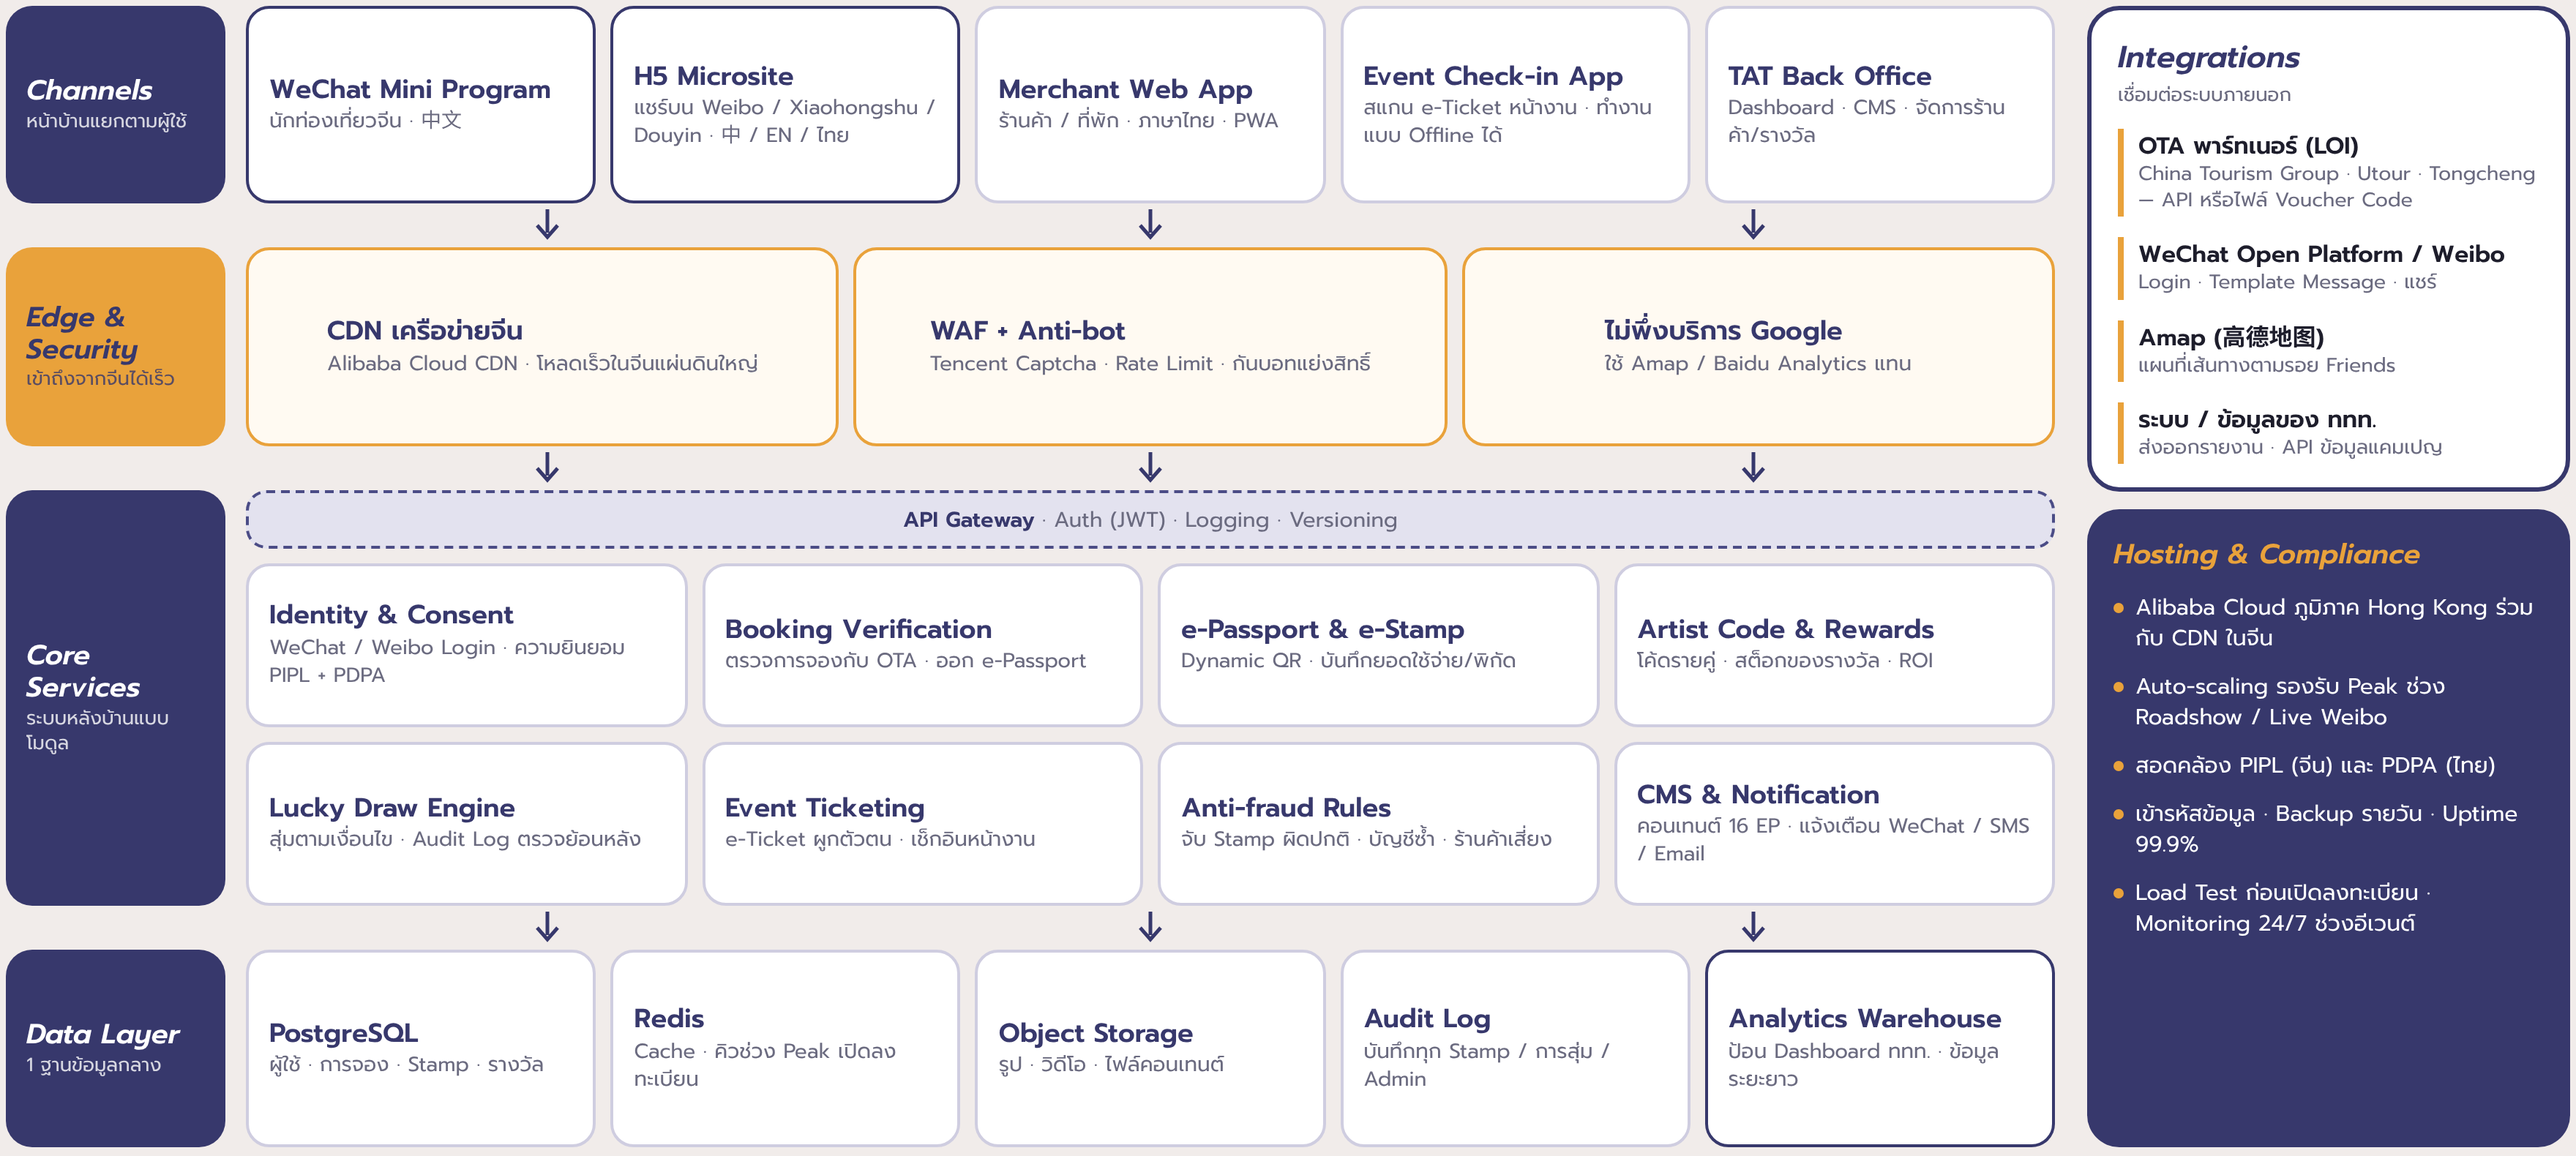
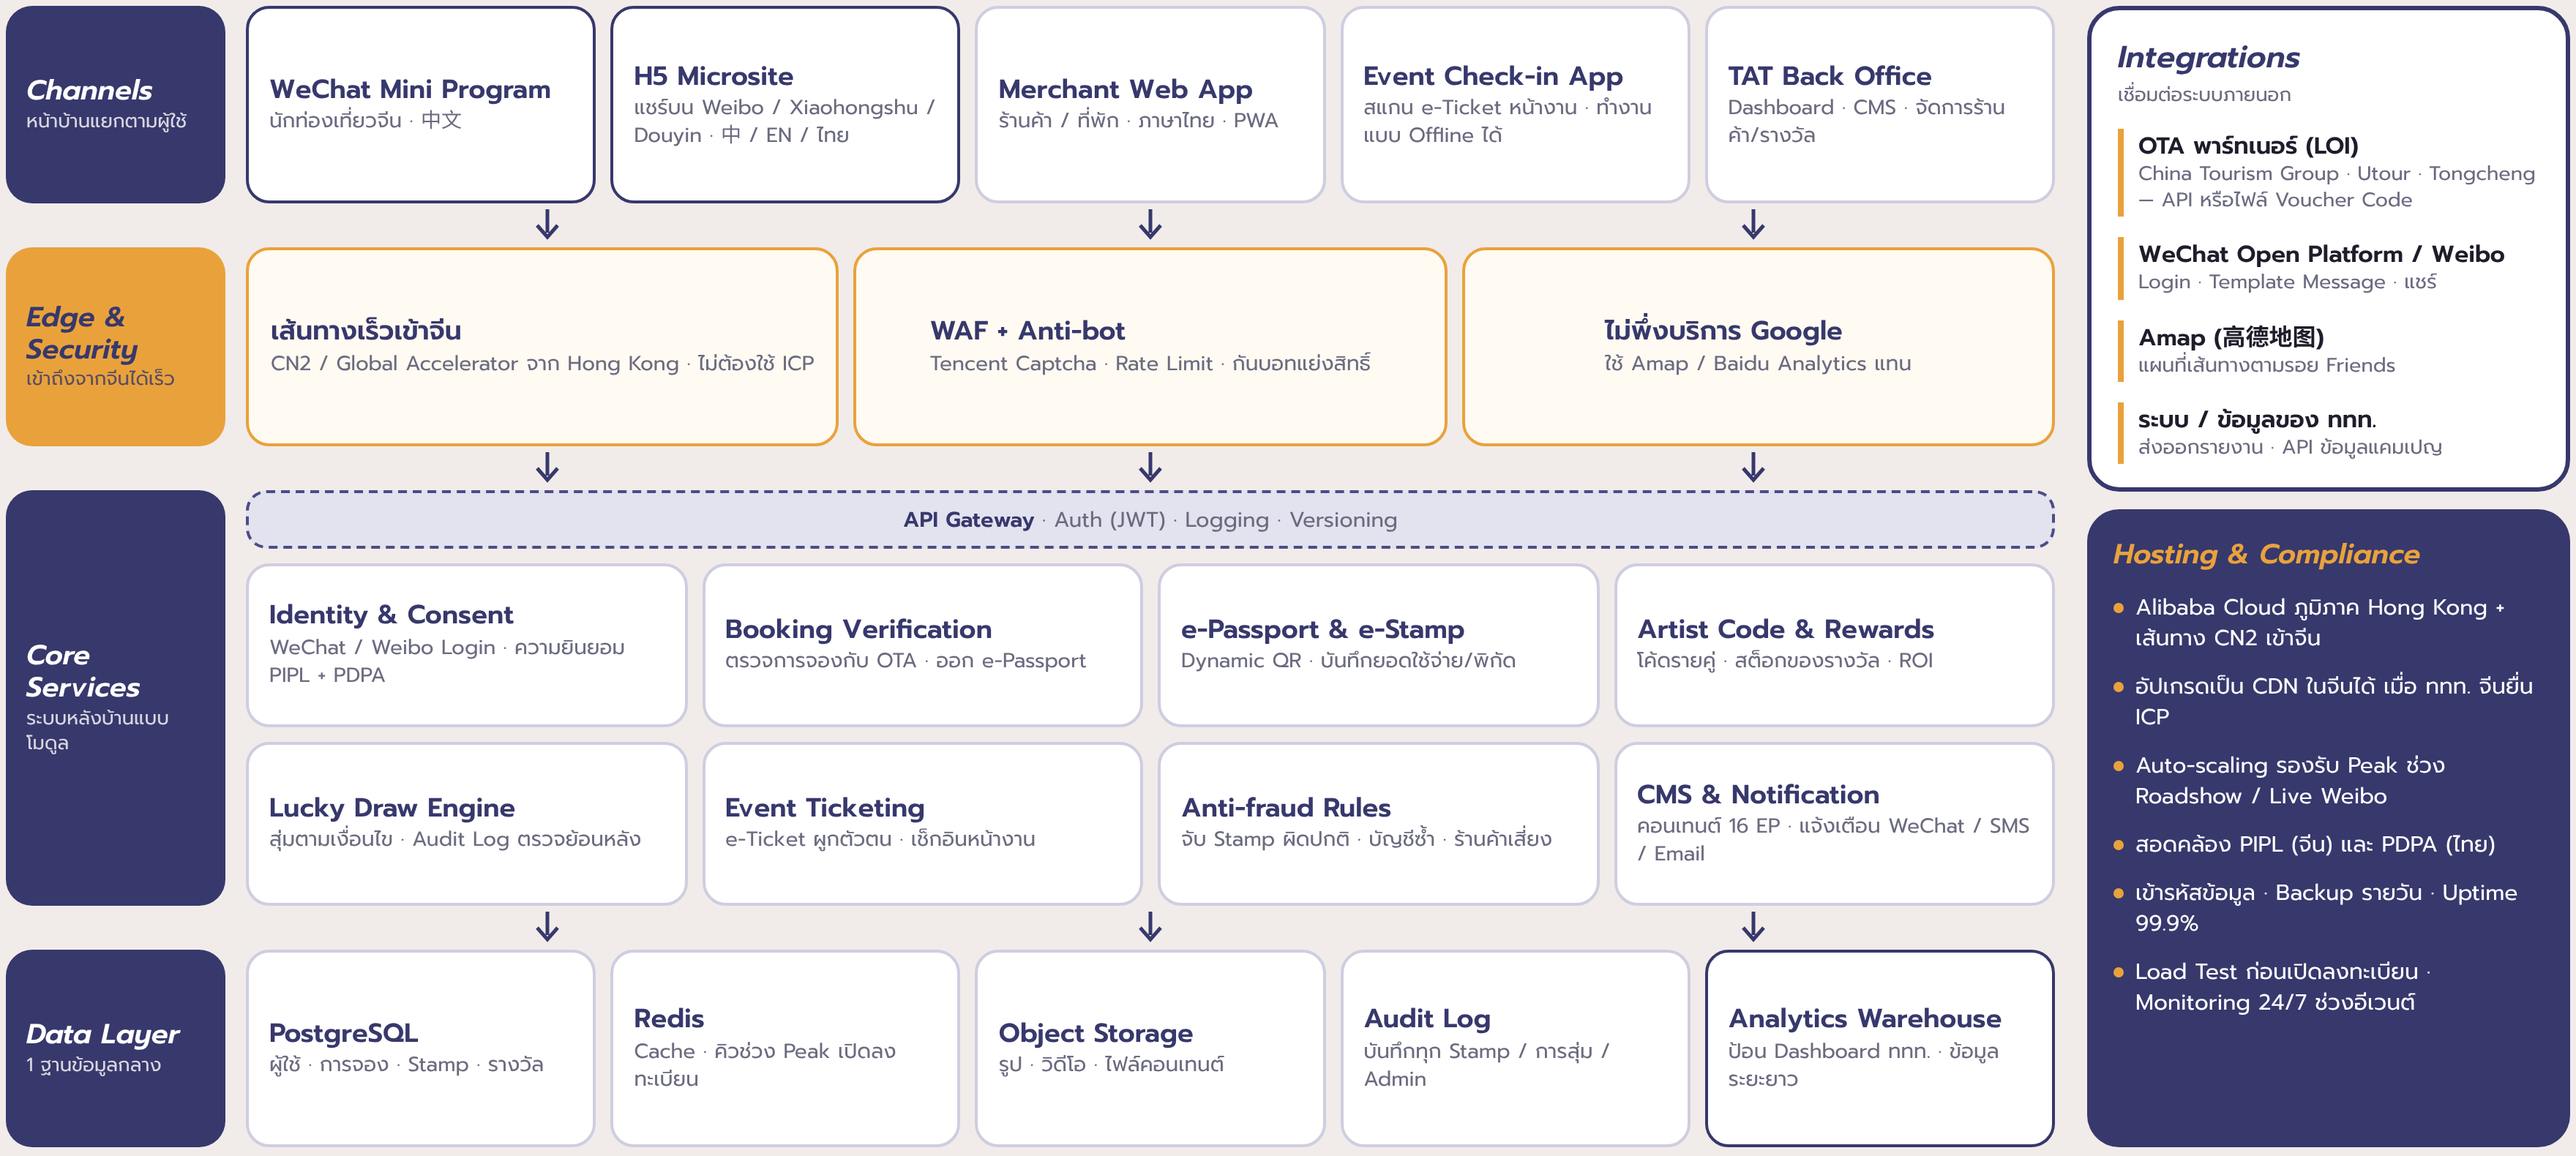
Architecture slide: replace in-China CDN with HK + CN2 route (no ICP needed)
Claude-Session: https://claude.ai/code/session_016nn1LH5sURhQb5trt8wQmh

diff --git a/system-slides/04-architecture.html b/system-slides/04-architecture.html
@@ -58,7 +58,7 @@
     <div class="tier">
       <div class="tl acc"><b>Edge &amp; Security</b><span>เข้าถึงจากจีนได้เร็ว</span></div>
       <div class="edge">
-        <div class="bx ac"><div><b>CDN เครือข่ายจีน</b><span>Alibaba Cloud CDN · โหลดเร็วในจีนแผ่นดินใหญ่</span></div></div>
+        <div class="bx ac"><div><b>เส้นทางเร็วเข้าจีน</b><span>CN2 / Global Accelerator จาก Hong Kong · ไม่ต้องใช้ ICP</span></div></div>
         <div class="bx ac"><div><b>WAF + Anti-bot</b><span>Tencent Captcha · Rate Limit · กันบอทแย่งสิทธิ์</span></div></div>
         <div class="bx ac"><div><b>ไม่พึ่งบริการ Google</b><span>ใช้ Amap / Baidu Analytics แทน</span></div></div>
       </div>
@@ -115,7 +115,8 @@
     </div>
     <div class="host">
       <h4>Hosting &amp; Compliance</h4>
-      <div>Alibaba Cloud ภูมิภาค Hong Kong ร่วมกับ CDN ในจีน</div>
+      <div>Alibaba Cloud ภูมิภาค Hong Kong + เส้นทาง CN2 เข้าจีน</div>
+      <div>อัปเกรดเป็น CDN ในจีนได้ เมื่อ ททท. จีนยื่น ICP</div>
       <div>Auto-scaling รองรับ Peak ช่วง Roadshow / Live Weibo</div>
       <div>สอดคล้อง PIPL (จีน) และ PDPA (ไทย)</div>
       <div>เข้ารหัสข้อมูล · Backup รายวัน · Uptime 99.9%</div>
